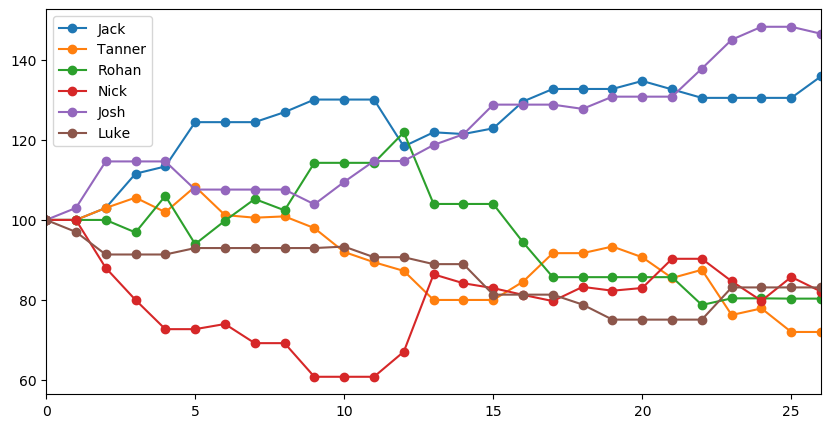
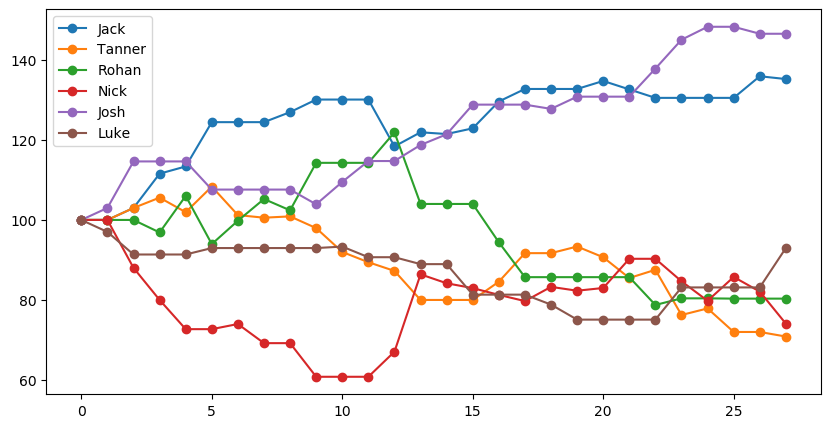
apr 5 update

diff --git a/index.html b/index.html
@@ -50,29 +50,21 @@
   <tr class="w3-white">
     <td>2</td>
     <td>Jack</td>
-    <td>136.0</td>
-    <td>33-11-4</td>
-    <td>0.729</td>
+    <td>135.3</td>
+    <td>35-12-4</td>
+    <td>0.725</td>
   </tr>
 
   <tr class="w3-white">
     <td>3</td>
     <td>Luke</td>
-    <td>83.1</td>
-    <td>9-20-1</td>
-    <td>0.317</td>
+    <td>93.0</td>
+    <td>12-20-1</td>
+    <td>0.379</td>
   </tr>
 
   <tr class="w3-white">
     <td>4</td>
-    <td>Nick</td>
-    <td>82.1</td>
-    <td>20-36-0</td>
-    <td>0.357</td>
-  </tr>
-
-  <tr class="w3-white">
-    <td>5</td>
     <td>Rohan</td>
     <td>80.3</td>
     <td>18-25-0</td>
@@ -80,11 +72,19 @@
   </tr>
 
   <tr class="w3-white">
+    <td>5</td>
+    <td>Nick</td>
+    <td>74.0</td>
+    <td>20-39-0</td>
+    <td>0.339</td>
+  </tr>
+
+  <tr class="w3-white">
     <td>6</td>
     <td>Tanner</td>
-    <td>71.9</td>
-    <td>21-34-5</td>
-    <td>0.392</td>
+    <td>70.8</td>
+    <td>22-36-5</td>
+    <td>0.389</td>
   </tr>
 
 
@@ -109,6 +109,49 @@
   <h2>Recent Rounds<h2>
 </div>
 
+<div class="w3-container">
+<h4>Murdock Park Long &nbsp (4/5/2021)</h4>
+<table class="w3-table w3-striped w3-bordered">
+<tbody>
+
+<tr class="w3-theme">
+  <th><strong>Player</strong></th>
+  <th><strong>Score</strong></th>
+  <th><strong>Rating Change</strong></th>
+</tr>
+
+
+  <tr class="w3-white">
+    <td>Luke</td>
+    <td>5</td>
+    <td>+9.9</td>
+  </tr>
+
+  <tr class="w3-white">
+    <td>Jack</td>
+    <td>11</td>
+    <td>-0.7</td>
+  </tr>
+
+  <tr class="w3-white">
+    <td>Tanner</td>
+    <td>12</td>
+    <td>-1.1</td>
+  </tr>
+
+  <tr class="w3-white">
+    <td>Nick</td>
+    <td>15</td>
+    <td>-8.0</td>
+  </tr>
+
+
+</tbody>
+</table>
+<p></p>
+</div>
+
+<!-- Recent 2 -->
 <div class="w3-container">
 <h4>Washout Woods &nbsp (4/4/2021)</h4>
 <table class="w3-table w3-striped w3-bordered">
@@ -145,7 +188,7 @@
 <p></p>
 </div>
 
-<!-- Recent 2 -->
+<!-- Recent 3 -->
 <div class="w3-container">
 <h4>Washout Woods &nbsp (4/3/2021)</h4>
 <table class="w3-table w3-striped w3-bordered">
@@ -182,43 +225,6 @@
 <p></p>
 </div>
 
-<!-- Recent 3 -->
-<div class="w3-container">
-<h4>Washout Waters &nbsp (4/2/2021)</h4>
-<table class="w3-table w3-striped w3-bordered">
-<tbody>
-
-<tr class="w3-theme">
-  <th><strong>Player</strong></th>
-  <th><strong>Score</strong></th>
-  <th><strong>Rating Change</strong></th>
-</tr>
-
-
-  <tr class="w3-white">
-    <td>Josh</td>
-    <td>-8</td>
-    <td>+3.2</td>
-  </tr>
-
-  <tr class="w3-white">
-    <td>Tanner</td>
-    <td>-5</td>
-    <td>+1.6</td>
-  </tr>
-
-  <tr class="w3-white">
-    <td>Nick</td>
-    <td>-4</td>
-    <td>-4.9</td>
-  </tr>
-
-
-</tbody>
-</table>
-<p></p>
-</div>
-
 
 <!-- RATINGS OVER TIME GRAPH -->
 <div class="w3-container">
@@ -237,7 +243,7 @@
 </div>
 
 <div class="w3-container">
-  <p>Last Update: 04-04-2021</p>
+  <p>Last Update: 04-05-2021</p>
   <p>View All Data:
     <a href="info/all-data.html">Logged Rounds</a>
   </p>

diff --git a/info/all-data.html b/info/all-data.html
@@ -408,6 +408,20 @@
     <td></td>
   </tr>
 
+  <tr class="w3-white">
+    <td>27</td>
+    <td>2021-04-05</td>
+    <td>Murdock Park Long</td>
+    <td>80</td>
+    <td>Medium</td>
+    <td>11</td>
+    <td>12</td>
+    <td></td>
+    <td>15</td>
+    <td></td>
+    <td>5</td>
+  </tr>
+
 
 </tbody>
 </table>
